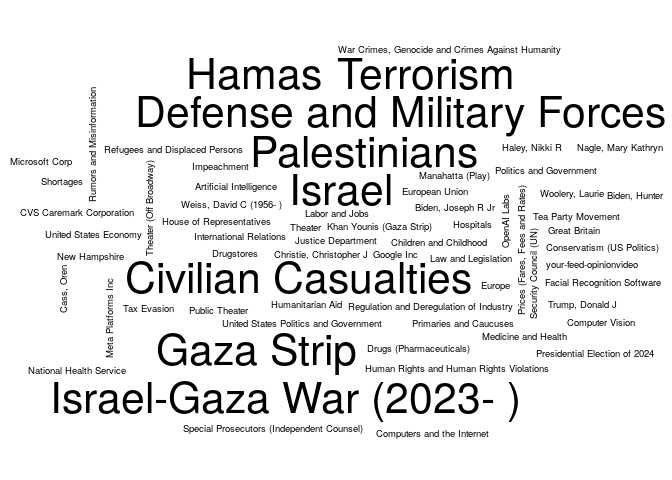
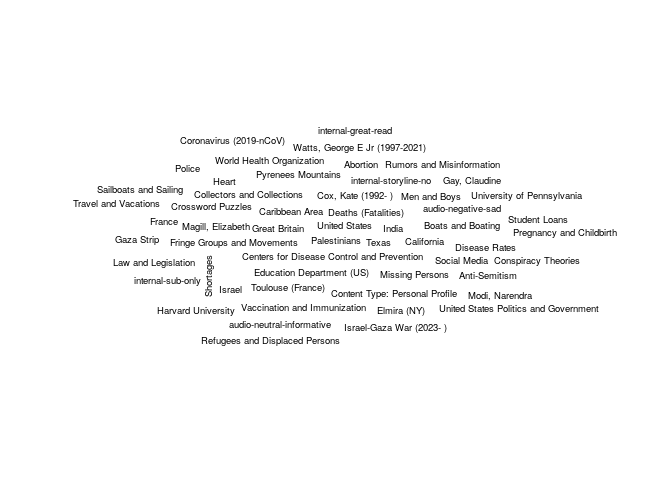
Updating the NYT report

Changed region(s): [[0.0, 0.0938, 1.0, 0.9375], [0.0938, 0.625, 0.125, 0.6562]]

diff --git a/03-nytimes/README.md b/03-nytimes/README.md
@@ -5,7 +5,7 @@ The following is an example of how to use the [NYTimes
 API](https://developer.nytimes.com/) to get a list of articles related
 to a particular term. Here we are searching articles that include the
 term `"health"`, and that were published up to seven days ago since
-2023-12-11.
+2023-12-18.
 
 ``` r
 # Preparing a function to use the GET method with the NYTimes API
@@ -83,25 +83,25 @@ colnames(tab) <- c("Keyword", "# Articles")
 knitr::kable(tab, row.names = FALSE)
 ```
 
-| Keyword                               | \# Articles |
-|:--------------------------------------|------------:|
-| Republican Party                      |          15 |
-| Civilian Casualties                   |          10 |
-| Defense and Military Forces           |          10 |
-| Gaza Strip                            |          10 |
-| Hamas                                 |          10 |
-| Health Insurance and Managed Care     |          10 |
-| Israel                                |          10 |
-| Israel-Gaza War (2023- )              |          10 |
-| Palestinians                          |          10 |
-| Terrorism                             |          10 |
-| United States International Relations |          10 |
-| Artificial Intelligence               |           5 |
-| Biden, Hunter                         |           5 |
-| Biden, Joseph R Jr                    |           5 |
-| Cass, Oren                            |           5 |
-| Children and Childhood                |           5 |
-| Christie, Christopher J               |           5 |
-| Computer Vision                       |           5 |
-| Computers and the Internet            |           5 |
-| Conservatism (US Politics)            |           5 |
+| Keyword                                    | \# Articles |
+|:-------------------------------------------|------------:|
+| Colleges and Universities                  |          10 |
+| Abortion                                   |           5 |
+| Anti-Semitism                              |           5 |
+| audio-negative-sad                         |           5 |
+| audio-neutral-informative                  |           5 |
+| Boats and Boating                          |           5 |
+| California                                 |           5 |
+| Caribbean Area                             |           5 |
+| Centers for Disease Control and Prevention |           5 |
+| Collectors and Collections                 |           5 |
+| Conspiracy Theories                        |           5 |
+| Content Type: Personal Profile             |           5 |
+| Coronavirus (2019-nCoV)                    |           5 |
+| Cox, Kate (1992- )                         |           5 |
+| Crossword Puzzles                          |           5 |
+| Deaths (Fatalities)                        |           5 |
+| Disease Rates                              |           5 |
+| Education Department (US)                  |           5 |
+| Elmira (NY)                                |           5 |
+| France                                     |           5 |
